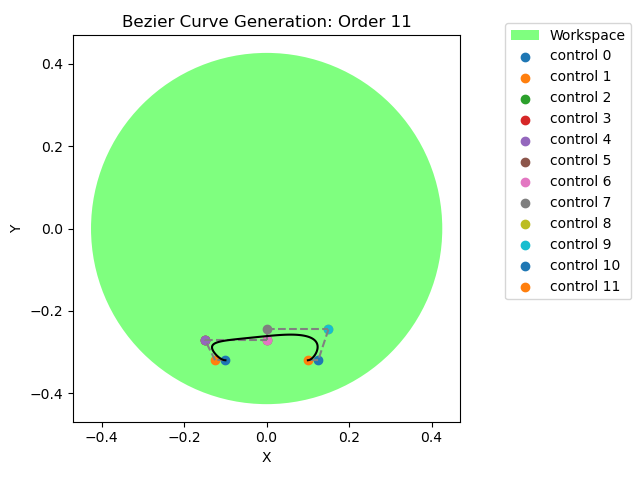
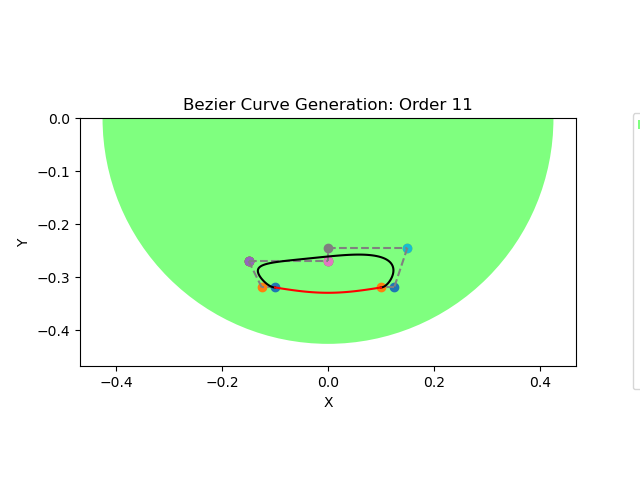
added a sinusoidal function generator for the stance portion of the swing

diff --git a/gaitlib/include/gaitlib/gaits.hpp b/gaitlib/include/gaitlib/gaits.hpp
@@ -69,6 +69,23 @@ namespace gaitlib{
   /// @return new modulated vector
   std::vector<double> modulate(std::vector<double> ref, double scale);
 
+  /// @brief an implementation of the numpy linspace function.
+  /// Used for forming/ testing simple linear trajectories
+  /// @param start start of trajectory
+  /// @param end end of trajectory
+  /// @param npoints number of points in the trajectory
+  /// @return vector of size npoints ranging from start to end
+  std::vector<double> linspace(double start, double end, double npoints);
+
+  /// @brief Generate the sinusoidal "stance" section of the gait where the foot is on the ground
+  /// @param xcoords vector of the desired x coordinates of the stance
+  /// should start at the final bezier control point and end at the first bezier control point
+  /// such that it connects both ends of the curve!
+  /// @param delta amplitude of the sinusoid
+  /// @param y_level y coordinate of starting/ending bezier control points
+  /// @return vector of the stance section of the gait
+  std::vector<double> stance(std::vector<double> xcoords, double delta, double y_level);
+
 }
 
 #endif

diff --git a/python_testing/bezier.py b/python_testing/bezier.py
@@ -99,8 +99,23 @@ def bez(points, step):
     curve.append(current)
   return curve
 
+
+def stance(xcoords, delta, y_level):
+  res = []
+  length = xcoords[0] - xcoords[-1]
+  for i in range(0, len(xcoords)):
+    ycoord = -1.0*delta*np.cos((np.pi/length)*xcoords[i]) + y_level
+    res.append(ycoord)
+  return res
+
 curve_x = bez(points_x, step)
 curve_y = bez(points_y, step)
+
+
+sin_x = np.linspace(points[-1][0], points[0][0], 100)
+# print("Sin x:", sin_x)
+sin_y = stance(sin_x, 0.01, points[0][1])
+# print("siny is:", sin_y)
 
 order = len(points)-1
 
@@ -116,12 +131,15 @@ for n,p in enumerate(points):
     ax.plot((prev[0],p[0]),(prev[1],p[1]),linestyle='dashed',color='gray')
   prev = p
 ax.plot(curve_x,curve_y, color='k')
+plt.plot(sin_x, sin_y, color='r')
 ax.legend(bbox_to_anchor=(1.1, 1.05))
 ax.set_title("Bezier Curve Generation: Order "+str(order))
 ax.set_xlabel("X")
 ax.set_ylabel("Y")
+ax.set_ylim(top=0.0)
 ax.set_aspect('equal', 'box')
-fig.tight_layout()
+# fig.tight_layout()
+# fig.layout
 plt.savefig("plots/ws+bezier_"+str(order)+".png")
 plt.show()
 

diff --git a/gaitlib/src/gaits.cpp b/gaitlib/src/gaits.cpp
@@ -46,4 +46,26 @@ std::vector<double> modulate(std::vector<double> ref, double scale){
   return split2;
 }
 
+
+std::vector<double> linspace(double start, double end, double npoints){
+  std::vector<double> res;
+  double step = (end - start) / npoints;
+  double curr = start;
+  for (int i = 0; i < npoints; i++) {
+    res.push_back(curr);
+    curr += step;
+  }
+  return res;
+}
+
+std::vector<double> stance(std::vector<double> xcoords, double delta, double y_level){
+  std::vector<double> res;
+  double len = xcoords.front() - xcoords.back();
+  for(int i=0; i<xcoords.size(); i++){
+    double ycoord = -1.0*delta*cos((M_PI/len)*xcoords.at(i)) + y_level;
+    res.push_back(ycoord);
+  }
+  return res;
+}
+
 }

diff --git a/custom_gait/src/custom_gait.cpp b/custom_gait/src/custom_gait.cpp
@@ -201,19 +201,7 @@ private:
     return 0.0;
   }
 
-  // Designed to act like the numpy linspace function.
-  // Used for forming/ testing simple linear trajectories
-  std::vector<double> linspace(double lo, double hi, double points)
-  {
-    std::vector<double> res;
-    double step = (hi - lo) / period;
-    double curr = lo;
-    for (int i = 0; i < points; i++) {
-      res.push_back(curr);
-      curr += step;
-    }
-    return res;
-  }
+
 
   double get_theta_calf(double theta_thigh, double x)
   {
